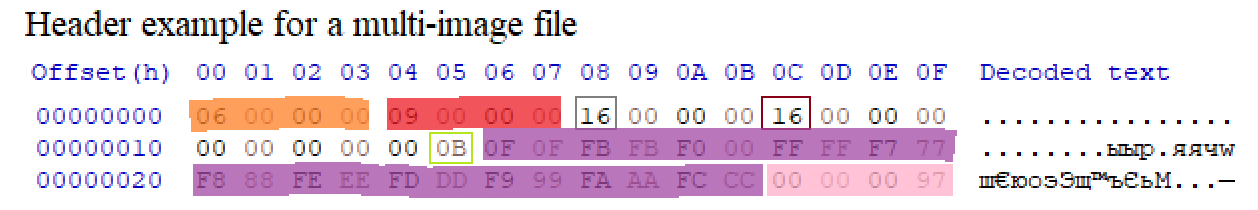
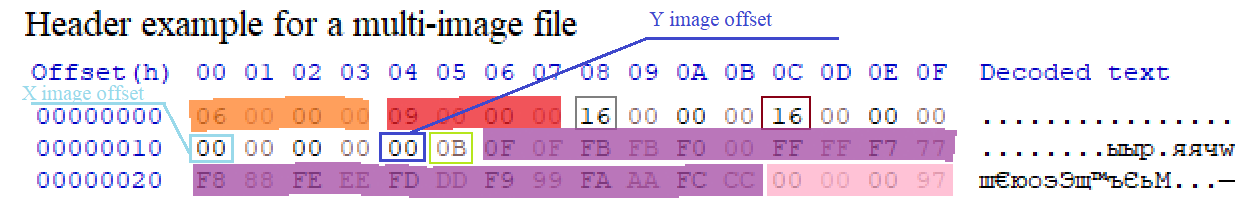
lol

diff --git a/README.md b/README.md
@@ -18,7 +18,7 @@ If you wish to forgo installing EKA2L1, then https://github.com/1upus/N-Gage_stu
 2. Locate the ```.PAK``` files (Mine were located over at ```\[PATH TO YOUR EKA2L1 INSTALL]\data\drives\e\System\Apps\6R45```)   
    Snakes has 5 ```.PAK``` files, numbered 6R45-ZZ01 through 6R45-ZZ05   
    Each ```.PAK``` file should start with the magic number ```F7 D3 1F 10```   
-   !! If you end up with ```.pakc``` files, then you have a version of the game that has the asserts _encrypted_. The encryption is an implementation of blowfish, more on that later.
+   !! If you end up with ```.pakc``` files, then you have a version of the game that has the assets _encrypted_. The encryption is an implementation of blowfish, more on that later.
 3. Run [offzip](http://aluigi.altervista.org/search.php?src=offzip) on each file to extract the assets
 
 ### What are these files that you just extracted?
@@ -34,10 +34,12 @@ You can find the exact length of the header by looking at the location of the fi
 This information should be enough to extract each asset from the ```asset packing file```, so this repo offers [a Python script](/Scripts/unpacker.py) that can extract these files for you.
 
 ## ```.adp``` files
-These are the sound files. They are stored as IMA ADPCM at 8KHz sample rate. You can convert them to other formats through the use of [SoX](https://sourceforge.net/projects/sox/). They are available in an already-converted state both [in this repo](/Decoded%20OST) in ```.wav``` format, as well as on [youtube](https://youtu.be/4M8aX67pUe4).
+These are the sound files. They are stored as IMA ADPCM at 8KHz sample rate. You can convert them to other formats through the use of [SoX](https://sourceforge.net/projects/sox/). They are available in an already-converted state both [in this repo](/Decoded%20OST) in ```.wav``` format, as well as on [youtube](https://youtu.be/4M8aX67pUe4).   
+
+Note: From my testing, it would seem that replacing these files with anything longer than the original filesize causes the game to crash upon boot. Never tried to edit the SFX, nor did I figure out why the game crashes by looking at the code through IDA PRO.
 
 ## ```.spt``` files
-These are the in-game sprites. Each ```.spt``` file can contain multiple images, which is determined by the first byte of the first word of the file. ```x02``` denotes a singe-image ```.spt```, while ```x06``` corresponds to one that contains multiple images. Second word corresponds to the number of images contained within the file. Bytes at offsets ```x08``` and ```x0C``` are the sprite's width and height respectively, these seem to remain constant for all images contained in multi-image ```.spt``` files. The byte over at ```x0D``` in single-image files and at ```x15``` in multi-image files is the number of colors defined for the sprite and it is followed by pairs of bytes describing the 4-bit ARGB colors. The word that follows the color definition section stores the length of the RLE pixel data in big-endian, the RLE data itself then follows, which will be explained in the next paragraph. The sections that are not highlighted have an unknown purpose. The additional 2 words in multi-image ```.spt``` files have an unknown purpose as well, and it is important to note that they are not always equal to 0. (They could be related to animation, like frame delay values, but this is completely untested.)
+These are the in-game sprites. Each ```.spt``` file can contain multiple images, which is determined by the first byte of the first word of the file. ```x02``` denotes a singe-image ```.spt```, while ```x06``` corresponds to one that contains multiple images. Second word corresponds to the number of images contained within the file. Bytes at offsets ```x08``` and ```x0C``` are the sprite's width and height respectively, these seem to remain constant for all images contained in multi-image ```.spt``` files. The byte over at ```x0D``` in single-image files and at ```x15``` in multi-image files is the number of colors defined for the sprite and it is followed by pairs of bytes describing the 4-bit ARGB colors. The word that follows the color definition section stores the length of the RLE pixel data in big-endian, the RLE data itself then follows, which will be explained in the next paragraph. The sections that are not highlighted have an unknown purpose. The additional 2 words in multi-image ```.spt``` files are the image sequence's X and Y offsets respectively. Unsure as to why that's only a feature of multi-image spt files, but it is.
 
 ![pic of a single-image .spt file header](imgs/spt%20format.png)
 ![pic of a multi-image .spt file header](imgs/spt%20multi%20format.png)
@@ -50,16 +52,42 @@ If there are less than 16 colors defined in the image (details fuzzy on this), t
 If there are multiple images in the ```.spt``` file, then the next RLE chunk length word is located at the end of the previous RLE chunk.
 
 ## ```.bix``` files
-These seem to be the 3d models used in the game.
+These seem to be the 3d models used in the game. They only contain the vertex and face data, no colors or textures or anything.
+
+Each file starts with `01 00 00 00`, followed by a word containing the number of animation frames the file has (i.e. just vertex groups) and then by the number of vertices in the model, also a word. At offset 0x0C, each vertices' coordinates are stored, one word for each of the axes. At 0x0C + ```<number of vertices> x <number of animation frames> x 3``` is the word denoting the number of faces the model has, the data for each face's vertices then follows.
 
 ## ```.lsc``` files
-Seem to define the level triggers, pickups or paths. They resemble the level trigger and pickup definition ```.txt``` files used in the prerelease.
+These are called ```level scripts``` by ```levelDefs.txt``` and are used to define the level triggers, pickups or paths. They resemble the level trigger and pickup definition ```.txt``` files used in the prerelease.
+
+Each file usually begins with ```n:```, which points to the level's name in the Snakes' resource files. For example, ```n: 0x5dcb7165``` gets the resource file with the UID ```0x5dcb7``` and then gets the ```0x165```th entrym using it as the level name. If the level script lacks an entry of ```n: ```, then the level's .dat file's name is used as the level name.
 
 ## ```.dat``` files
 Seem to be the files that contain level geometry and other info about the levels.
 
 ## ```.txt``` files
-These include dev commentary, the list of tracks that play in each set of levels and said sets of levels themselves. There are mentions of "groovetracker" scripts, which are likely how the game decides which music to play.
+These include dev commentary, the list of tracks that play in each set of levels and said sets of levels themselves.   
+
+The game uses ```Groovetracker``` scripts to decide which music files to play and where, they are also stored as ```.txt``` files.
+
+## Game savedata
+
+These are encrypted by an XoR cipher and they contain an MD5 hash at the end to ensure data integrity, I guess. This repo [contains two C programs](Scripts/Savedata%20editing) to decode them for editing and reencode them back into a state that the game accepts.
+
+### sts.bin
+
+This is the "Continue" savedata, used for when you decide to continue the game on the level you left off, keeping track of your lives, score and NOKIA/SNAKES letter collection.
+
+It always starts with ```FF FF FF FF```
+
+### sno.bin
+
+This is the general savedata, including the settings, hi-scores and mastery status.
+
+It always starts with ```05 00 00 00```, followed by hi-score data. Each entry seemingly stores the score itself, then the level number, then the time spent in seconds, each of these taking up 56 bytes. The game displays 5 hi-score entries.   
+
+Near the end of the file are the audio settings, followed by the game mastery flag and the unlocked level count. The end of the file has the data related to the controls, then the MD5 hash. It would seem as if the file continuously has a new MD5 hash appended to it, which could be a bug in the version of the game I was testing or an intentional measure.   
+
+I don't have the exact offsets of anything for either of these files, testing got a bit too tedious and looking at the IDA PRO decompilation did not help me much.   
 
 ## The Asset Encryption Issue
 If you had extracted the ```Asset Packing Files``` from a version of the game too new, you will see that the filename is different (```.pakc``` rather than ```.pak```) and you will find yourself unable to extract the assets with [offzip](http://aluigi.altervista.org/search.php?src=offzip).
